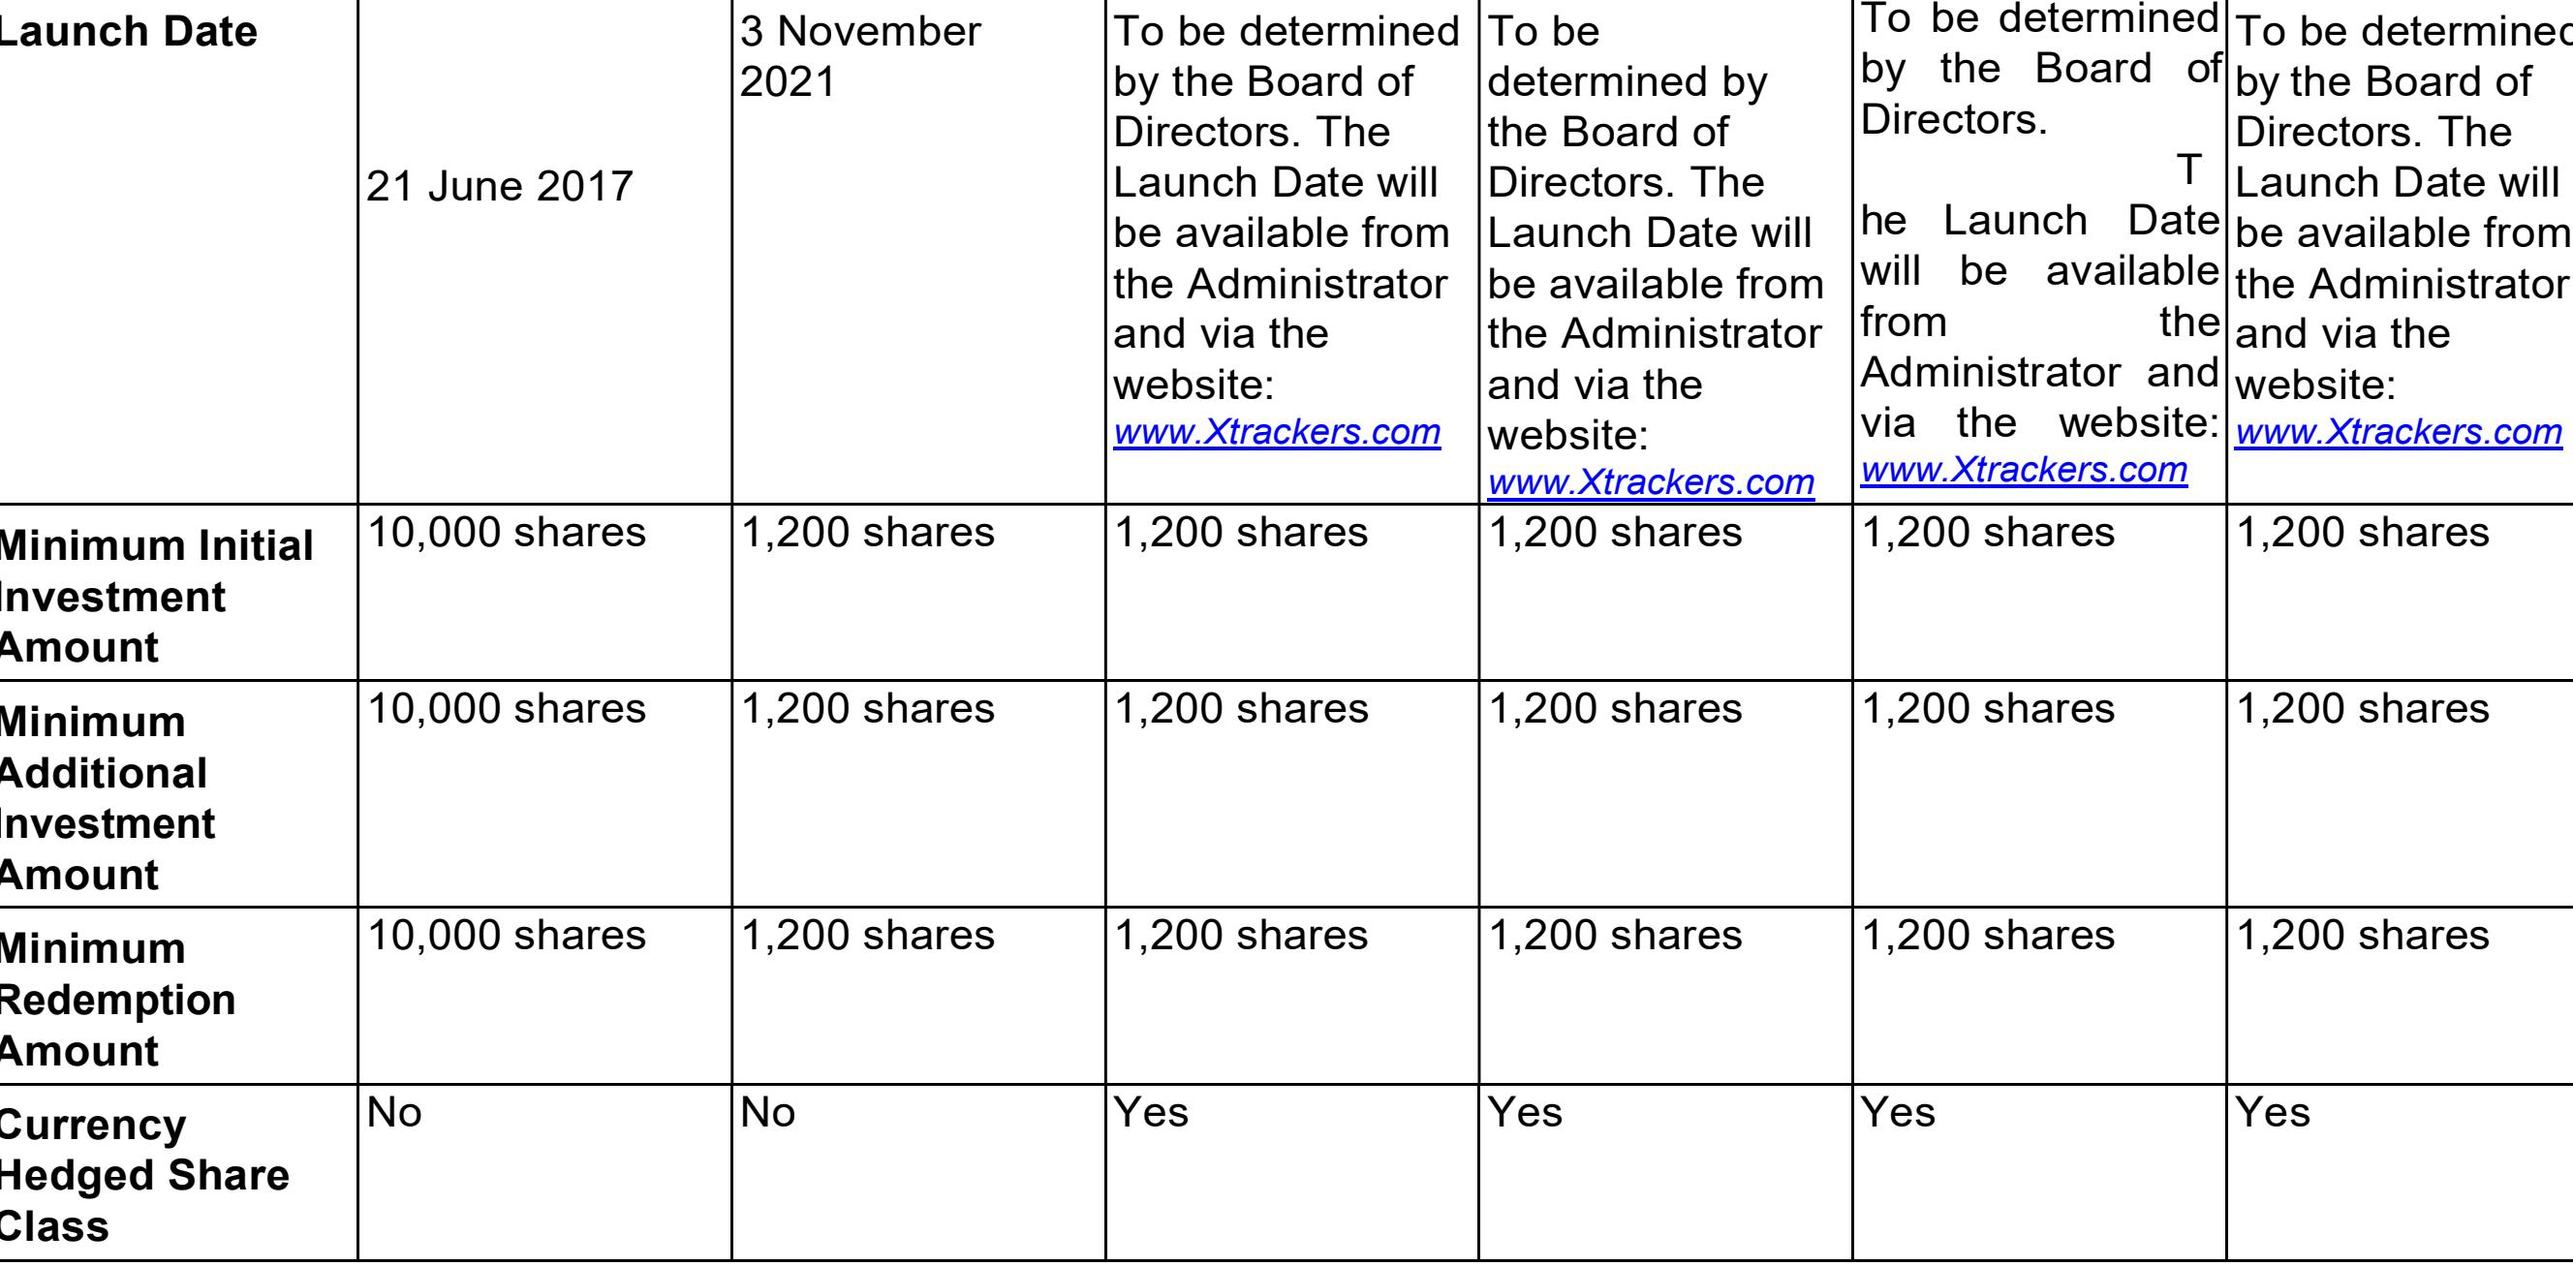
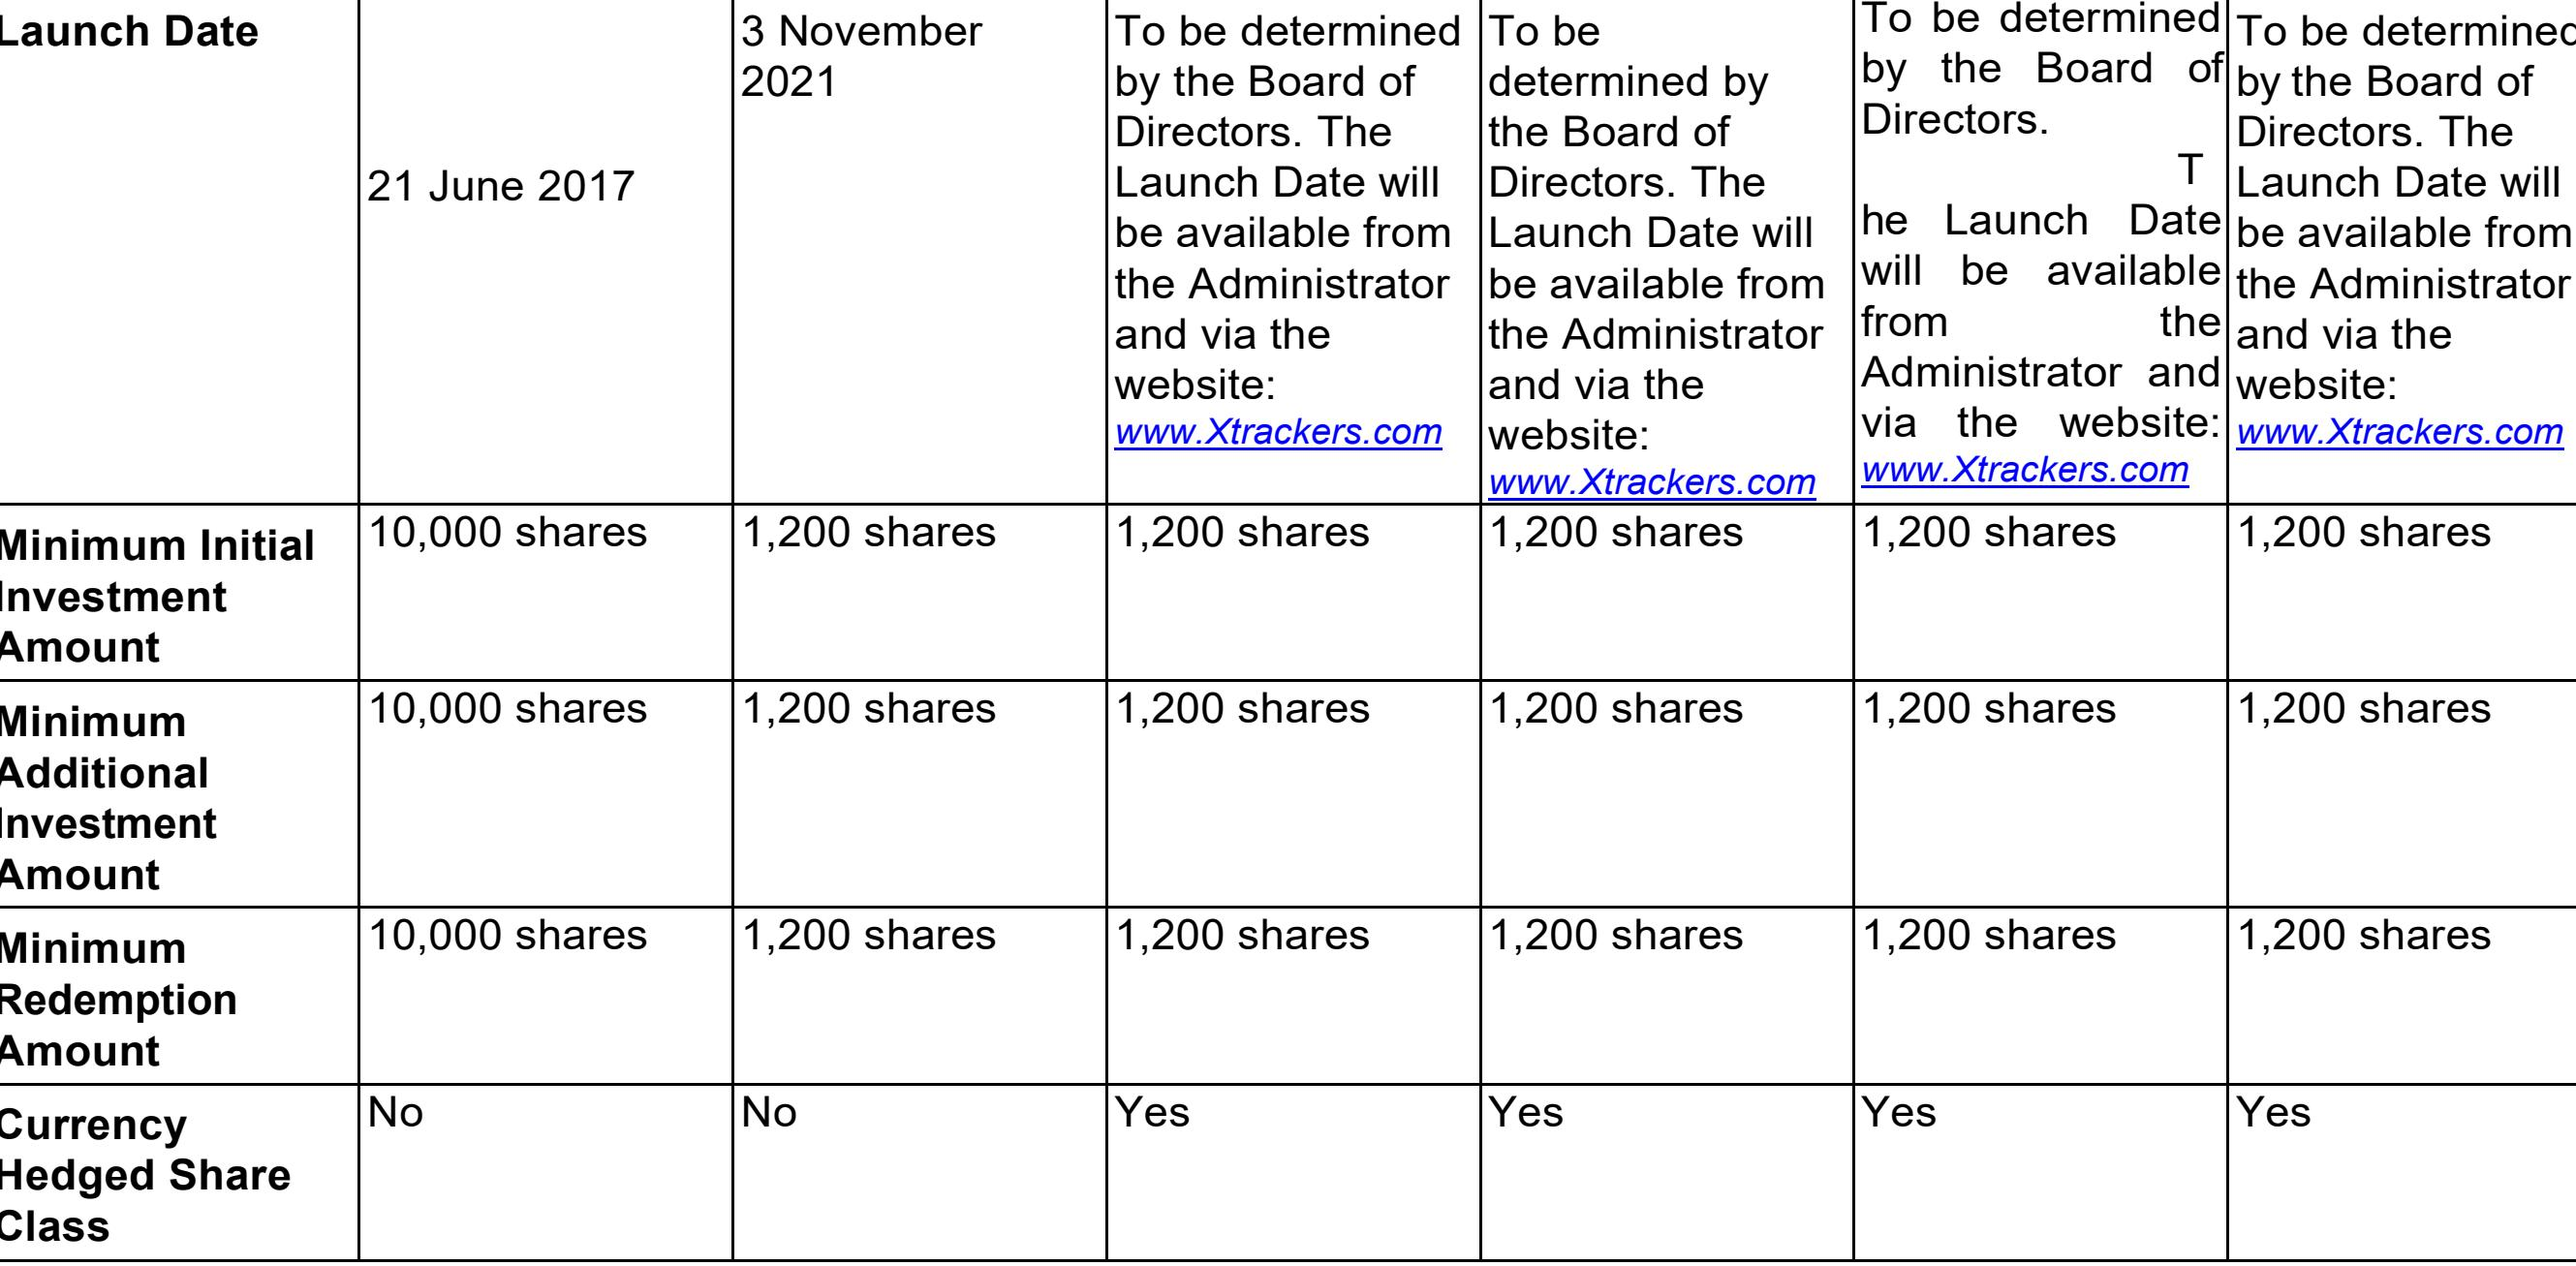
Add rate-limit retry/backoff to perturbation testing in evaluation runner
Perturbation calls were hitting OpenAI 429s under the 30K TPM tier; add
exponential backoff retries and a configurable inter-call delay
(--perturb-delay), plus a --no-perturb flag to skip perturbation entirely.

diff --git a/backend/evaluation/runner.py b/backend/evaluation/runner.py
@@ -56,12 +56,14 @@ class EvaluationRunner:
         output_dir: str = "./evaluation_results",
         use_llm_judge: bool = True,
         run_perturbation: bool = True,
+        perturbation_delay: float = 2.0,  # seconds between perturbation API calls
     ):
         settings = get_settings()
         self.api_key = api_key or settings.openai_api_key
         self.output_dir = output_dir
         self.use_llm_judge = use_llm_judge
         self.run_perturbation = run_perturbation
+        self.perturbation_delay = perturbation_delay  # tunable for rate limit tier
         self.eval_domain = "General"
         os.makedirs(output_dir, exist_ok=True)
 
@@ -195,23 +197,61 @@ class EvaluationRunner:
             - contributing_chunks: top chunks that actually drove the answer
             - perturbation_summary: high-level stats
         """
-        # Build a generate_fn closure for the engine
+        import random
+
+        # Build a generate_fn closure with retry + exponential backoff
+        # to handle OpenAI 429 rate limit errors (30K TPM tier)
         def _generate_fn(q: str, results: list[dict]) -> str:
-            return generate_answer(
-                question=q,
-                search_results=results,
-                model_name="gpt-4o",
-                temperature=0,
-                api_key=self.api_key,
-                prompt_mode=prompt_mode,
-            )
+            max_retries = 5
+            base_delay = 2.0  # seconds
+
+            for attempt in range(max_retries):
+                try:
+                    return generate_answer(
+                        question=q,
+                        search_results=results,
+                        model_name="gpt-4o",
+                        temperature=0,
+                        api_key=self.api_key,
+                        prompt_mode=prompt_mode,
+                    )
+                except Exception as e:
+                    err_str = str(e)
+                    # Only retry on rate limit (429) errors
+                    if "429" in err_str or "rate_limit" in err_str.lower():
+                        if attempt < max_retries - 1:
+                            # Exponential backoff: 2s, 4s, 8s, 16s
+                            delay = base_delay * (2 ** attempt) + random.uniform(0, 1)
+                            logger.warning(
+                                f"Rate limit hit on perturbation chunk "
+                                f"(attempt {attempt+1}/{max_retries}). "
+                                f"Waiting {delay:.1f}s..."
+                            )
+                            time.sleep(delay)
+                        else:
+                            logger.error(f"Perturbation: max retries exceeded. Skipping chunk.")
+                            raise
+                    else:
+                        raise  # Non-429 error — don't retry
+
+        # Build per-chunk generate_fn that adds a small delay between each call
+        # to stay within 30K TPM limit (each call is ~700-800 tokens)
+        # 30K TPM / 800 tokens per call = ~37 calls/min max → ~1.6s per call safe
+        chunk_call_count = [0]
+
+        def _generate_fn_with_delay(q: str, results: list[dict]) -> str:
+            # Add inter-chunk delay after the first call (not before)
+            if chunk_call_count[0] > 0:
+                time.sleep(self.perturbation_delay)
+            chunk_call_count[0] += 1
+            return _generate_fn(q, results)
 
         # Use the engine's built-in perturbation test
         raw_results = self.explainability_engine.run_perturbation_test(
             question=question,
             search_results=search_results,
             original_answer=original_answer,
-            generate_fn=_generate_fn,
+            generate_fn=_generate_fn_with_delay,
         )
 
         # Enrich with chunk text and rank

diff --git a/run_evaluation.py b/run_evaluation.py
@@ -453,6 +453,15 @@ Examples:
         help="Skip LLM-as-judge evaluation (faster, cheaper)",
     )
     parser.add_argument(
+        "--no-perturb", action="store_true",
+        help="Skip perturbation testing (faster, avoids extra GPT-4o calls)",
+    )
+    parser.add_argument(
+        "--perturb-delay", type=float, default=2.0,
+        help="Seconds to wait between perturbation API calls (default: 2.0). "
+             "Increase if hitting 429 rate limits.",
+    )
+    parser.add_argument(
         "--output-dir", type=str, default="./evaluation_results",
         help="Directory to save results",
     )
@@ -485,7 +494,9 @@ Examples:
     runner = EvaluationRunner(
         output_dir=args.output_dir,
         use_llm_judge=not args.no_judge,
-        collection_name="eval_default",
+        collection_name="eval_benchmark",
+        run_perturbation=not args.no_perturb,
+        perturbation_delay=args.perturb_delay,
     )
 
     all_results = {}
